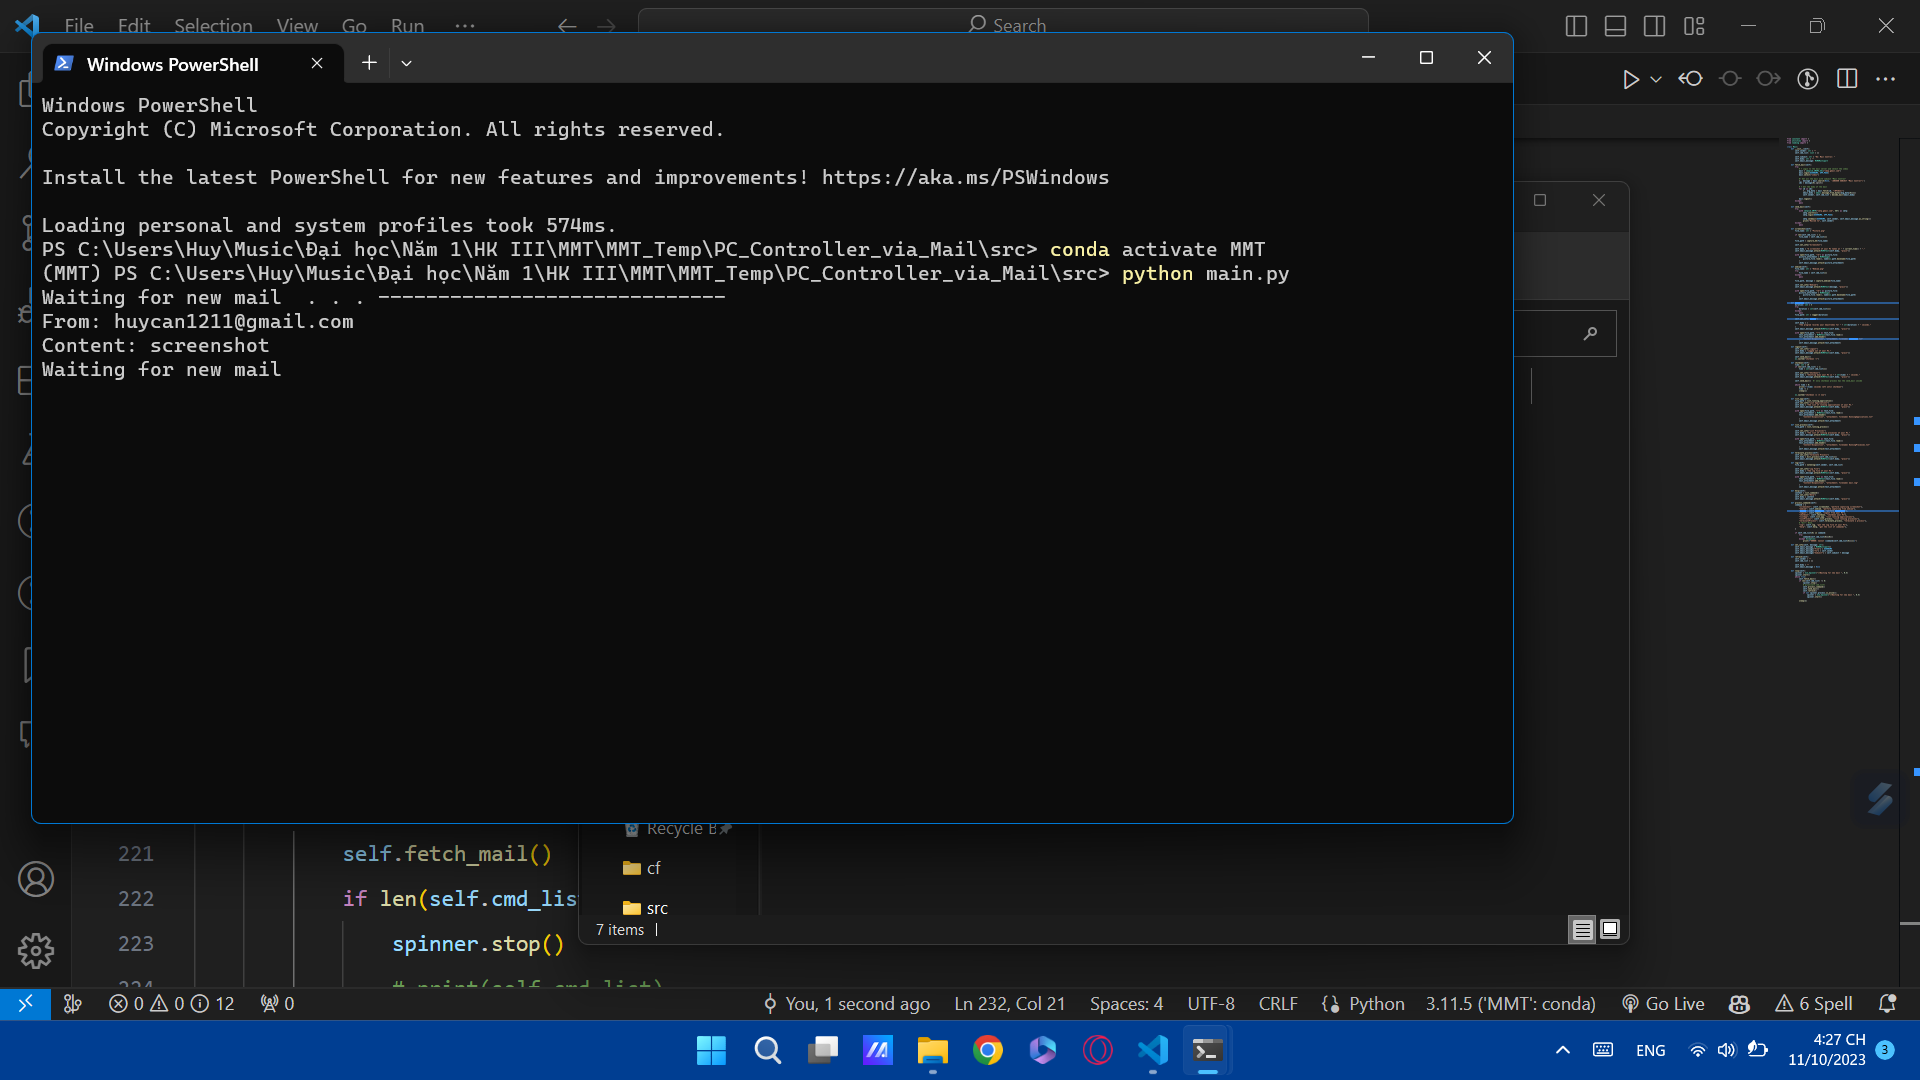
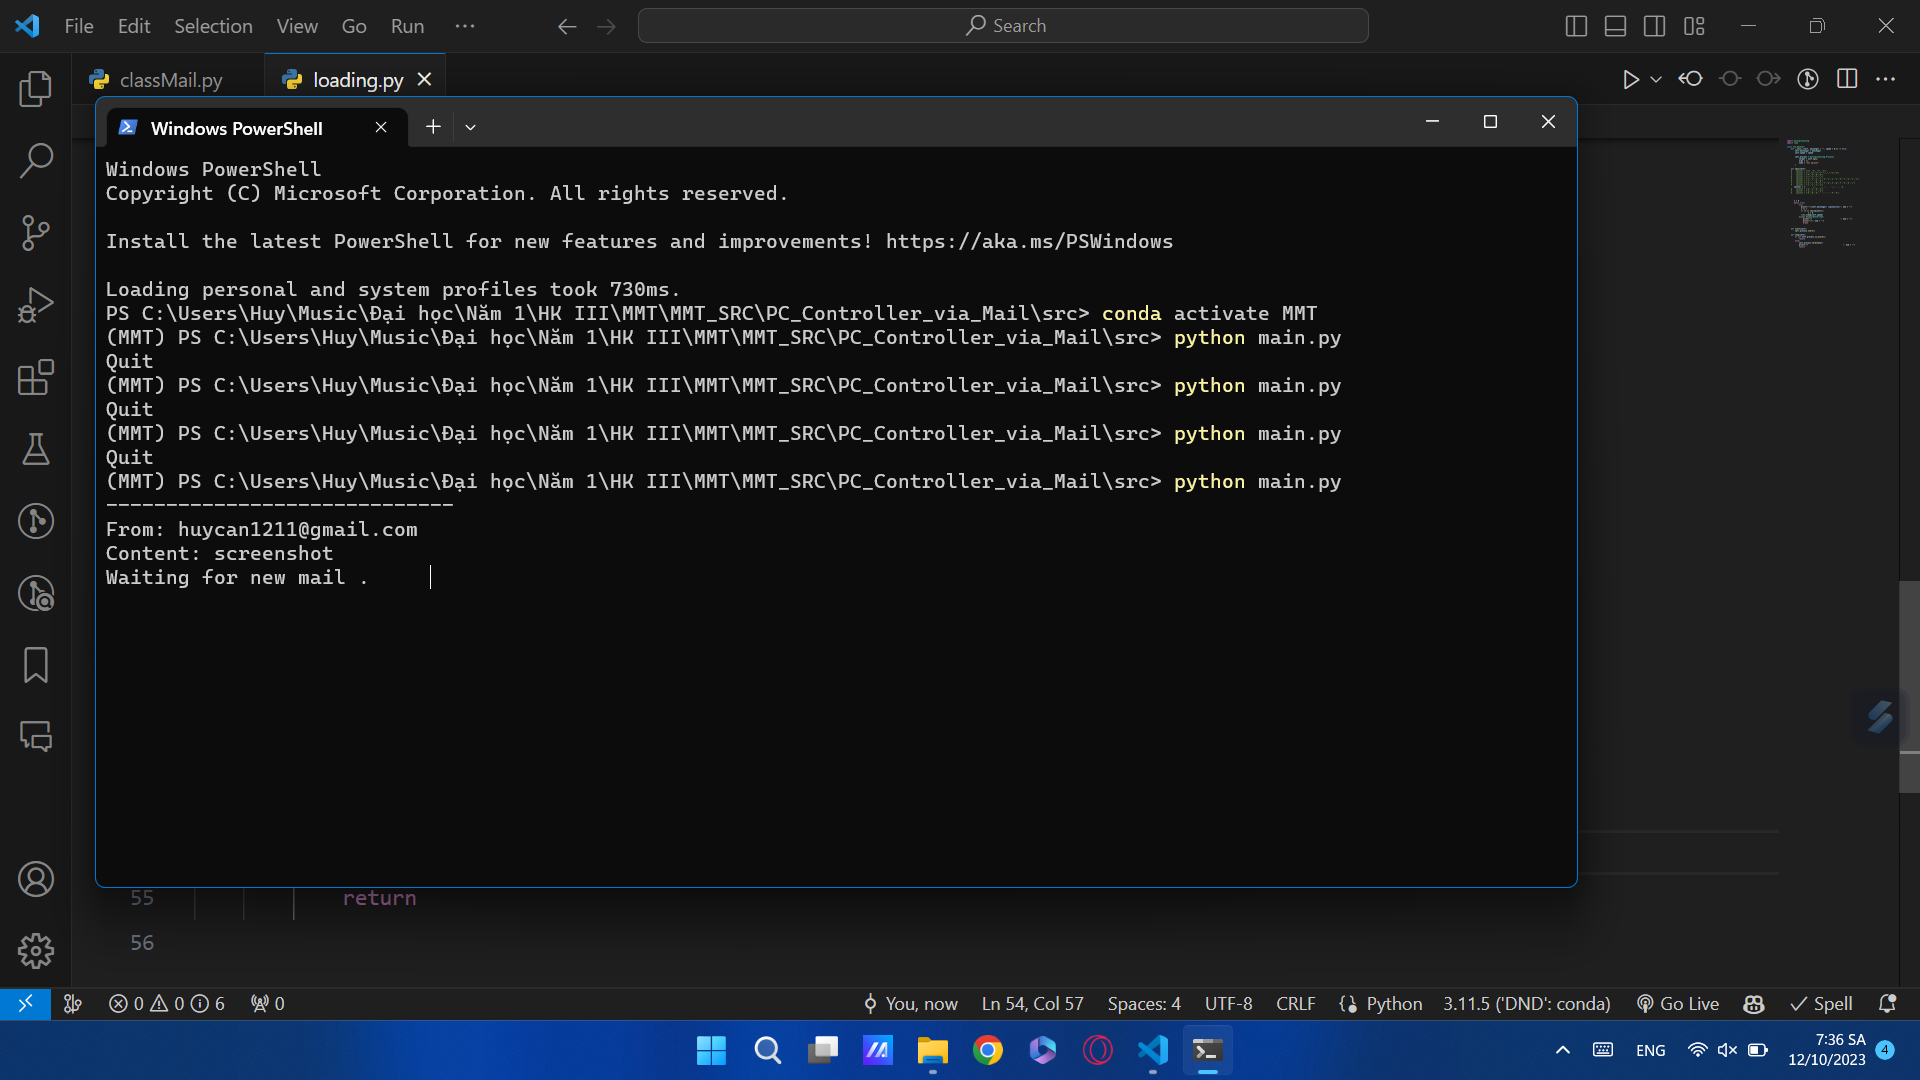
fix bug

diff --git a/src/loading.py b/src/loading.py
@@ -38,6 +38,7 @@ class CLI_Spinner:
                      n = 0
               time.sleep(self.speed)
             except KeyboardInterrupt:
+                print("\r                            ", end = "")
                 print("\r", end = "")
                 break
     
@@ -50,26 +51,5 @@ class CLI_Spinner:
             return
         else:
             self.process.terminate()
-            print("\r", end = "")
+            print("\r                                   ", end = "")
             return
-
-'''
-
-    def loop(self):
-        spinner = CLI_Spinner("\rWaiting for new mail ", 0.5)
-        spinner.start()
-        while True:
-            self.fetch_mail()
-            if len(self.cmd_list) != 0:
-                spinner.stop()
-                # print(self.cmd_list)
-                self.process_command()
-                self.send_mail()
-                self.refresh()
-                if not spinner.process.is_alive():
-                    spinner = CLI_Spinner("\rWaiting for new mail ", 0.5)
-                    spinner.start()
-
-            sleep(2)
- 
-'''

diff --git a/src/classMail.py b/src/classMail.py
@@ -39,7 +39,7 @@ class Mail:
                 smtp.login(USERNAME, APP_PASS)
 
                 smtp.sendmail(USERNAME, self.sender, self.email_message.as_string())
-                print("Mailed to", self.sender)
+                print("\rMailed to", self.sender)
         except:
             pass
 
@@ -215,7 +215,7 @@ class Mail:
         self.email_message = None
 
     def loop(self):
-        spinner = CLI_Spinner("\rWaiting for new mail ", 0.5)
+        spinner = CLI_Spinner("\rWaiting for new mail", 0.5)
         spinner.start()
         while True:
             self.fetch_mail()
@@ -226,7 +226,7 @@ class Mail:
                 self.send_mail()
                 self.refresh()
                 if not spinner.process.is_alive():
-                    spinner = CLI_Spinner("\rWaiting for new mail ", 0.5)
+                    spinner = CLI_Spinner("\rWaiting for new mail", 0.5)
                     spinner.start()
 
             sleep(2)

diff --git a/src/main.py b/src/main.py
@@ -20,5 +20,5 @@ if __name__ == "__main__":
         # test_main()
         main()
     except KeyboardInterrupt:
-        print("Quit                            ")
+        print("\rQuit                             ")
         
